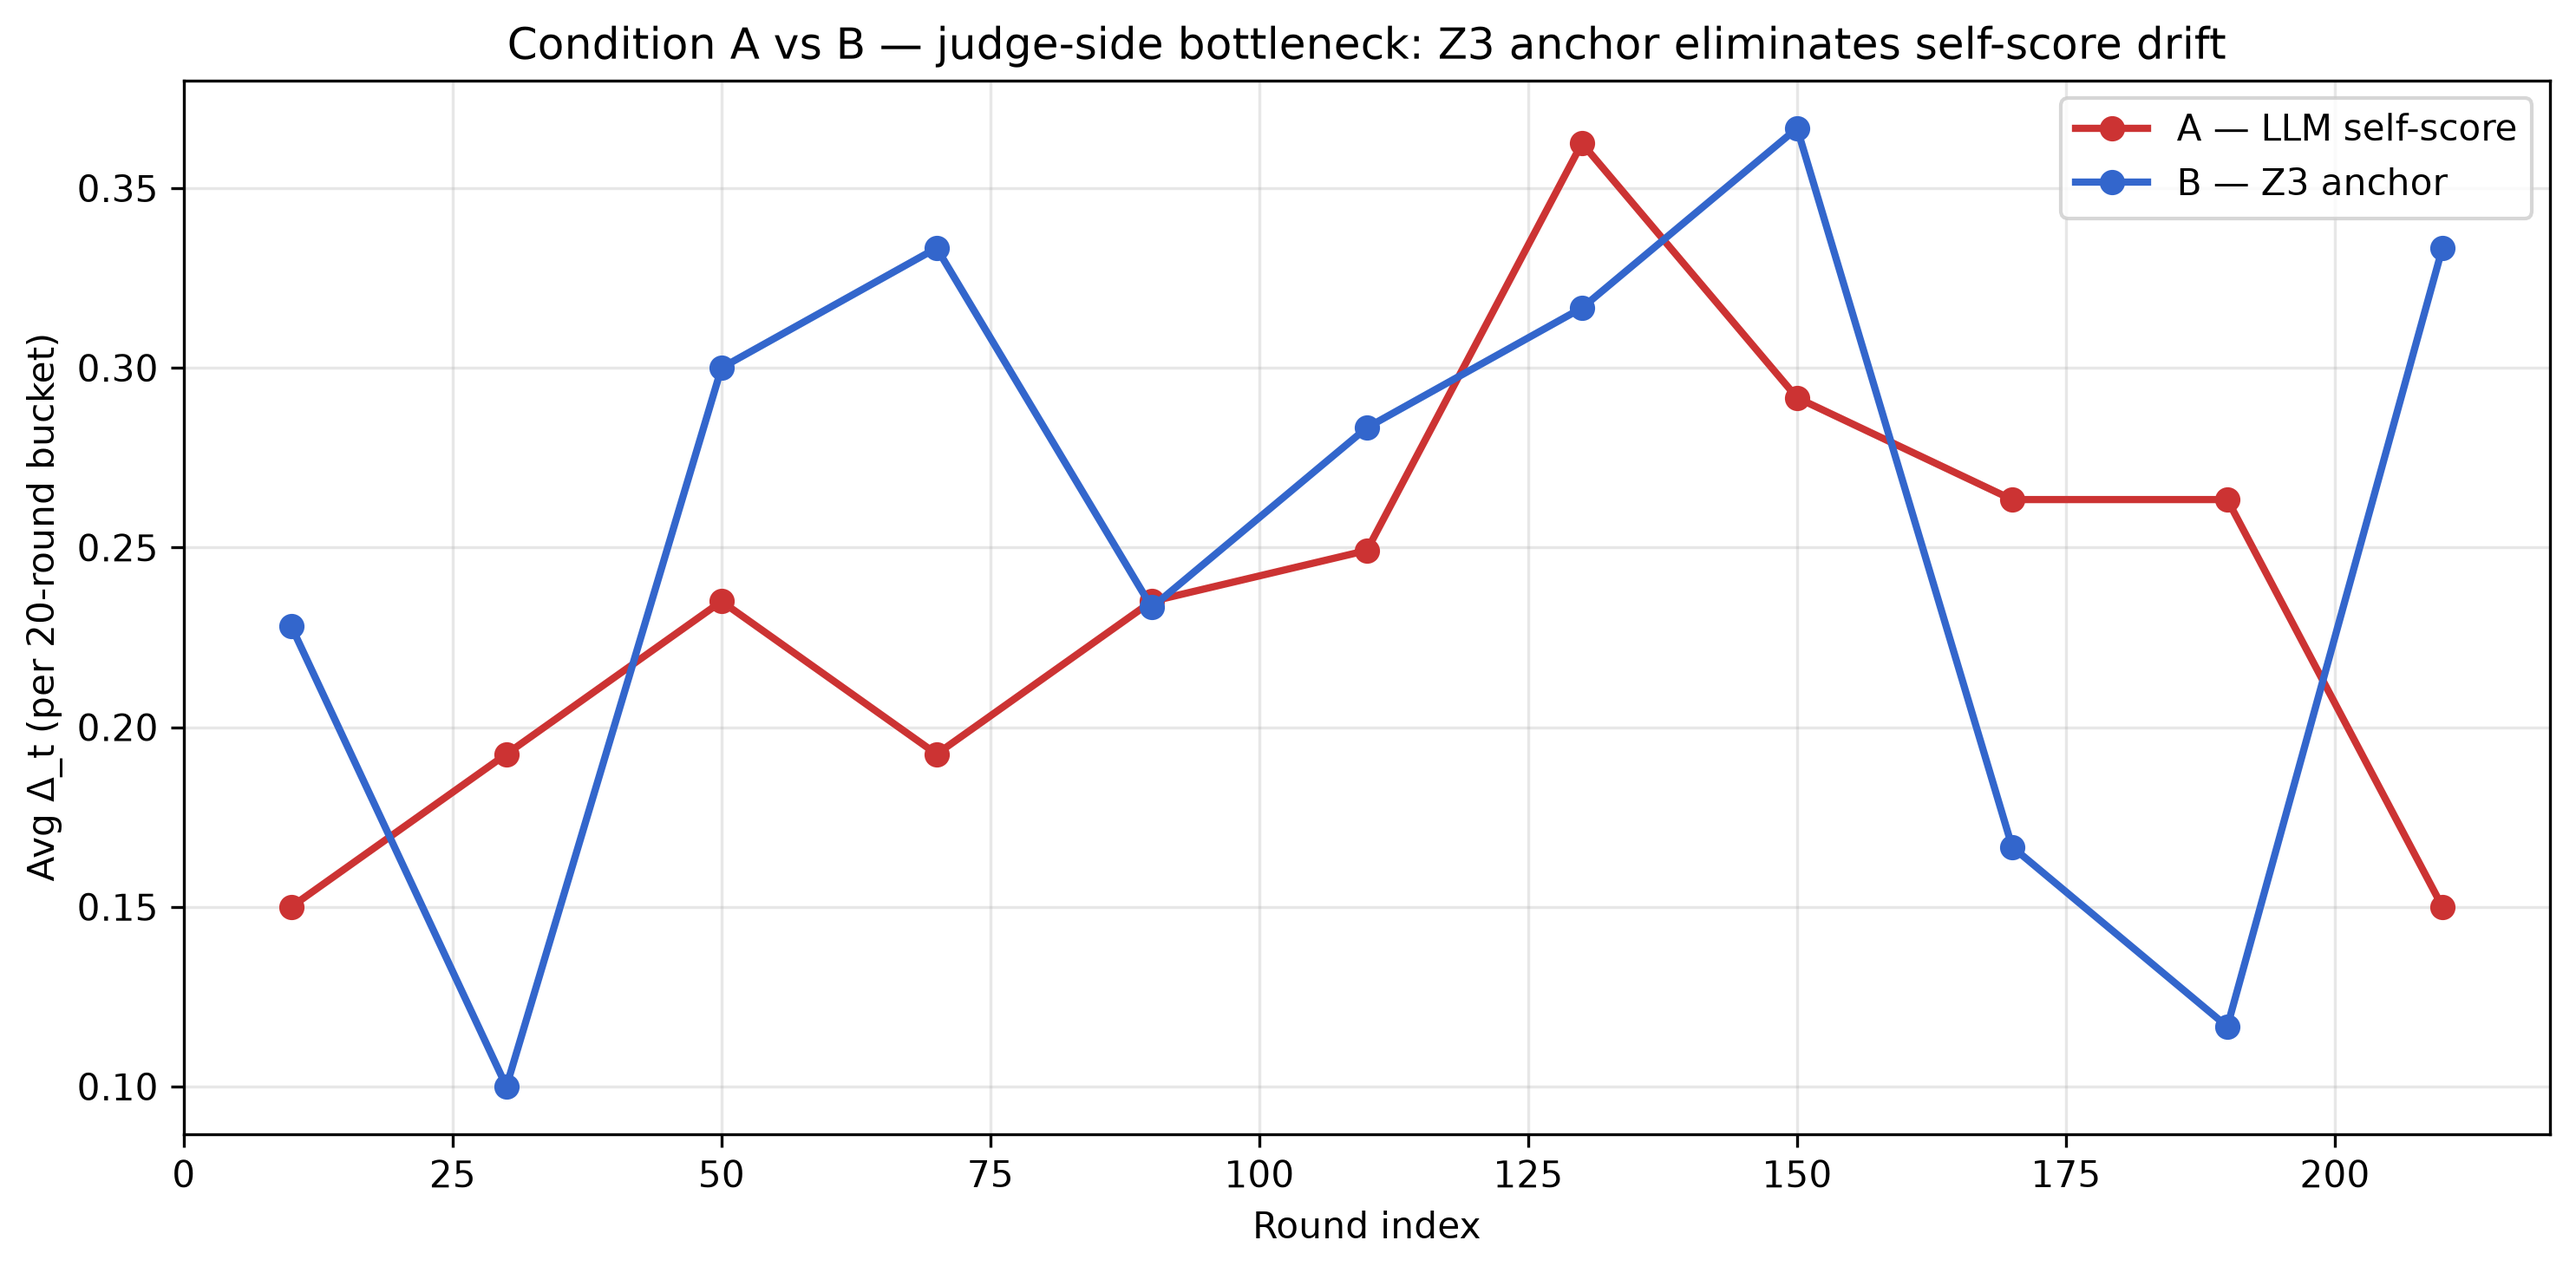
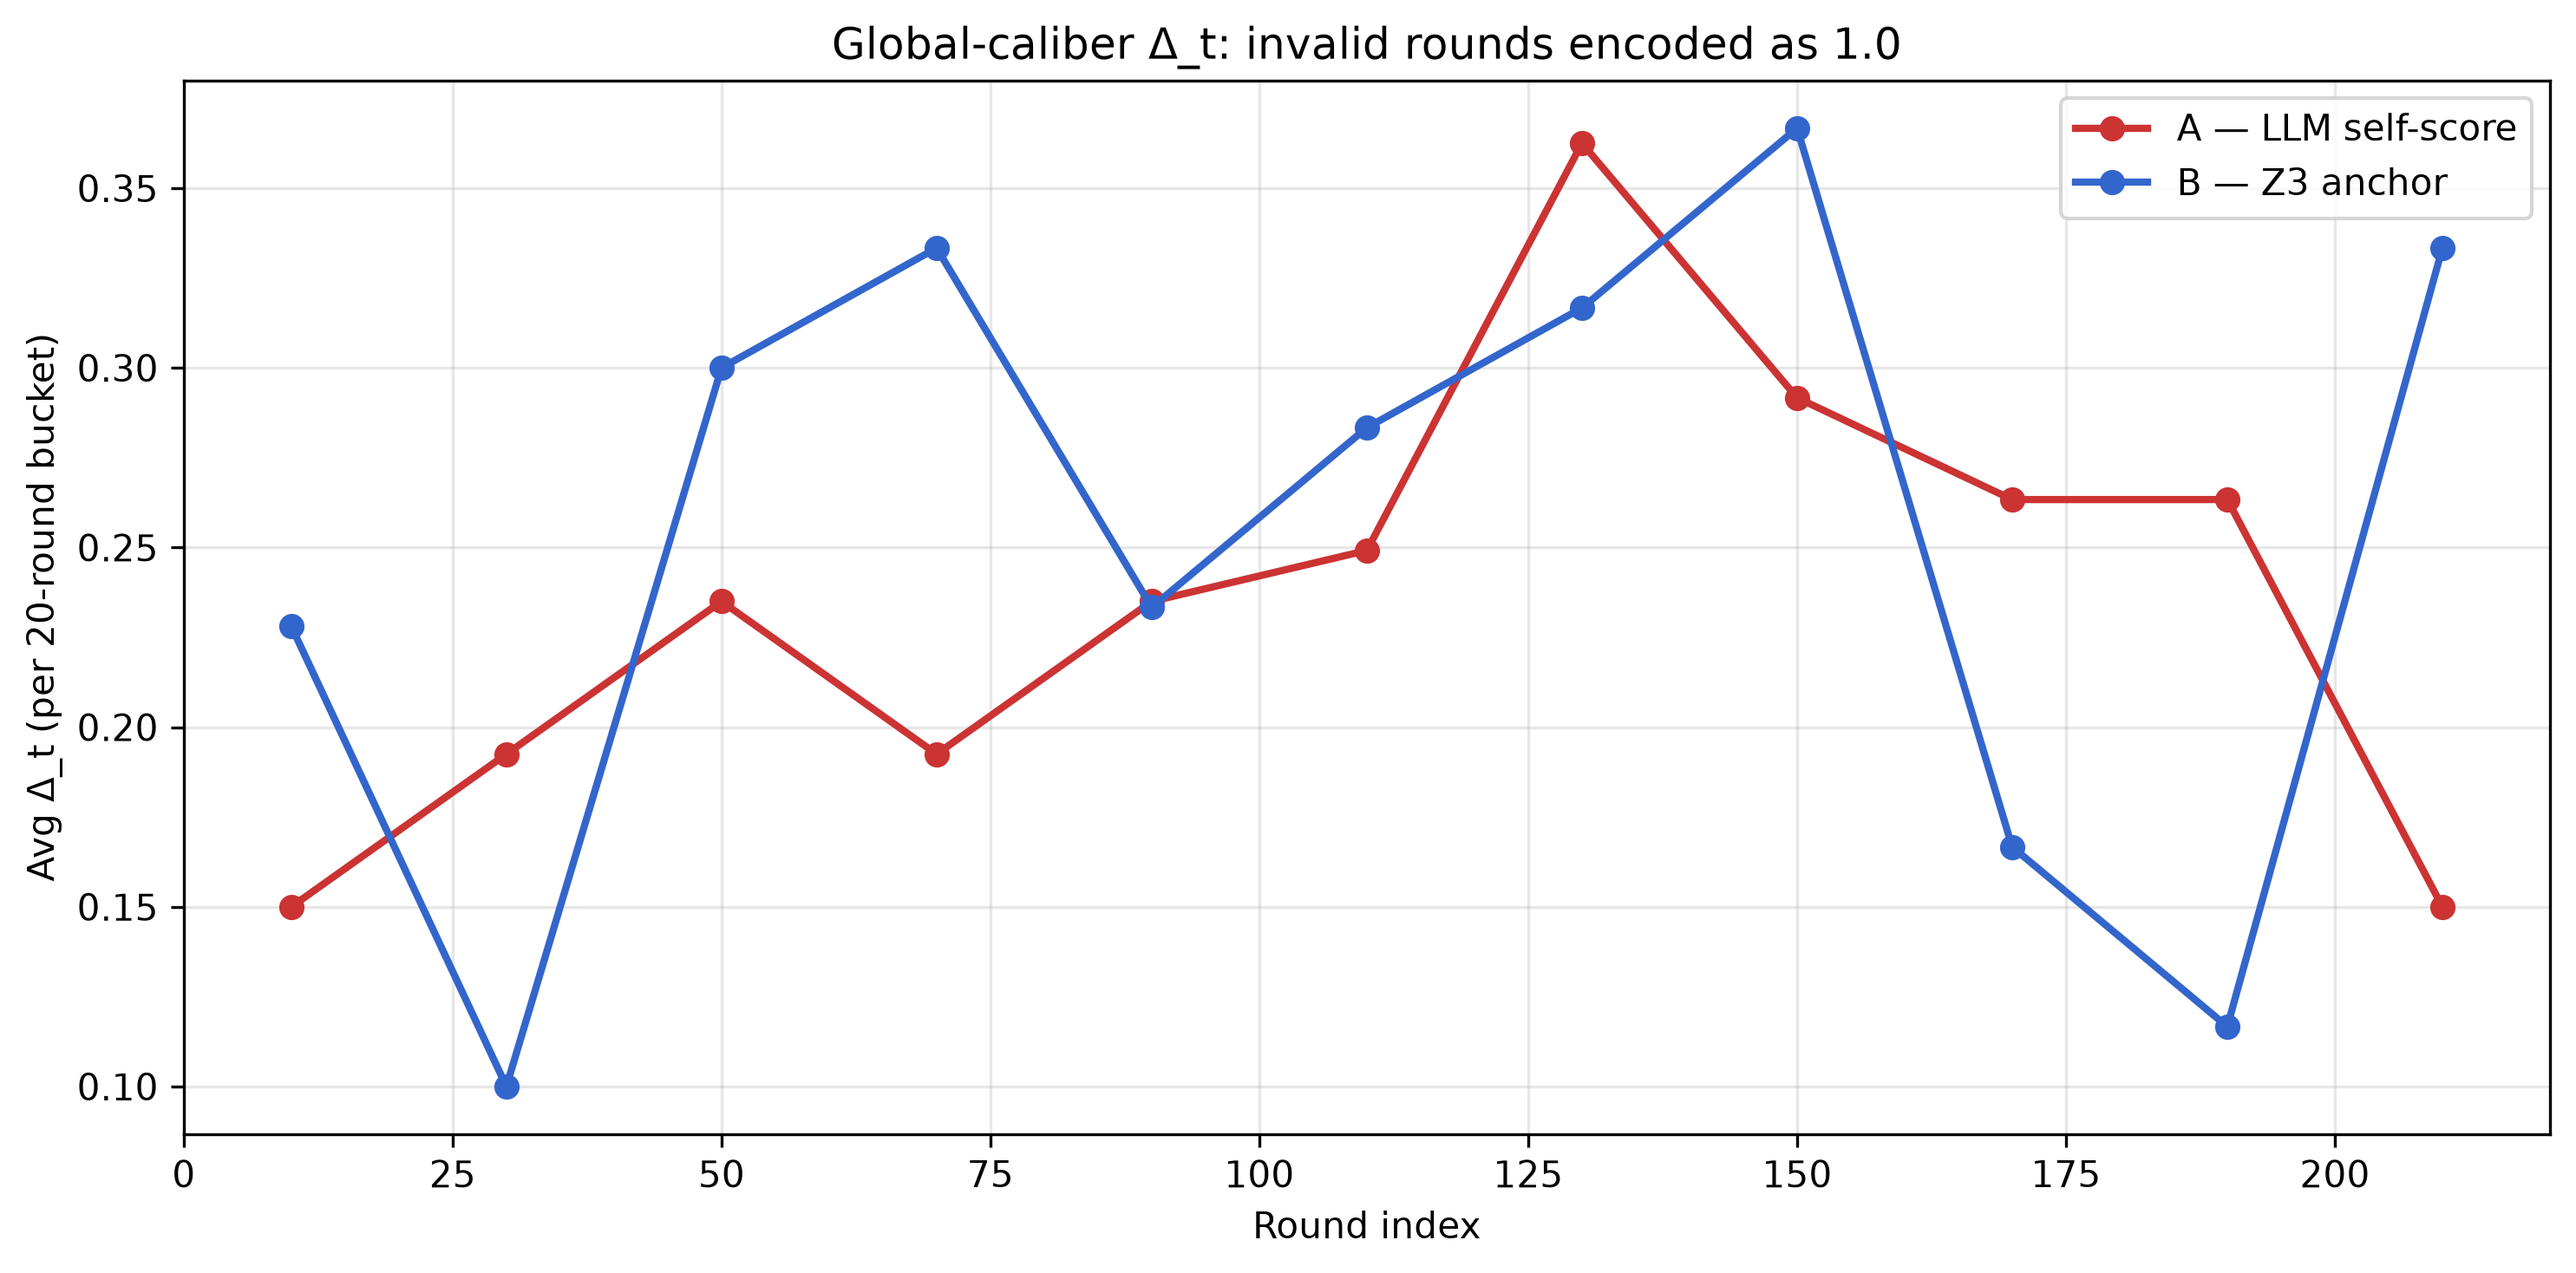
Correct fig2's caliber labelling; it plots the global caliber, not valid-only
fig2_delta_t_AB plots r['delta_t'] over every round, and load_round_records
assigns invalid rounds delta_t = 1.0. Condition A therefore averages 0.2435
and condition B 0.2450 - the two are near-indistinguishable, which is the
opposite of what a valid-only reading would suggest.

Three artefacts described it as valid-only evidence:

  - the title baked into the PNG read 'Z3 anchor eliminates self-score
    drift', a claim the plotted data contradicts
  - paper/main.tex's caption asserted 'A holds near 0.15 ... B holds at
    0.00', which are the valid-only means
  - docs/gallery.md's Figure A.1 repeated the same numbers

All three now state the global caliber with its actual means and point at
Figure 2 (fig2b_delta_t_per_round), the valid-only view, for judge
comparisons. README.md's figure-2 alt text and gallery heading described a
four-condition figure as 'A vs B'; both corrected.

unify_paper_outputs.py also relabelled fig2 as Figure A.1 and fig2b as
Figure 2 so the generated paper_ready_final.md matches the paper's layout,
and its Figure 2 caption cross-reference was renamed to match.

Regeneration was scoped so no other figure was touched: the two figure
functions were called directly rather than through analyze_paper.main,
which would also rewrite fig3/4/6, table1-5 and paper_ready.md.

Changed region(s): [[0.1859, 0.0, 0.8673, 0.0613]]

diff --git a/scripts/unify_paper_outputs.py b/scripts/unify_paper_outputs.py
@@ -803,8 +803,8 @@ def render_paper_final(out_path: Path, metrics: dict,
     md.append("[Table 2a: Δ_t global caliber — insert `tables/table2a_delta_t_global.md` here]\n\n")
     md.append("[Table 2b: Δ_t valid-only caliber — insert `tables/table2b_delta_t_valid_only.md` here]\n\n")
     md.append("[Table 2c: Δ_t semantics — insert `tables/table2c_delta_t_semantics.md` here]\n\n")
-    md.append("[Figure 2: Δ_t of A vs B — insert `fig2_delta_t_AB.png` here]\n\n")
-    md.append("[Figure 2b: per-round Δ_t — insert `fig2b_delta_t_per_round.png` here]\n\n")
+    md.append("[Figure 2: per-round Δ_t across 4 conditions — insert `fig2b_delta_t_per_round.png` here]\n\n")
+    md.append("[Figure A.1: global-caliber Δ_t, A vs B — insert `fig2_delta_t_AB.png` here]\n\n")
 
     md.append("### 4.3 Generator-Side Bottleneck (C and D)\n\n")
     va = metrics.get("valid_rate_A", 0.0)
@@ -831,7 +831,7 @@ def render_paper_final(out_path: Path, metrics: dict,
     md.append("[Figure 3b: valid rate by difficulty level — insert `fig3b_validity_by_level.png` here]\n\n")
     md.append("[Figure 4: C/D difficulty trajectories — insert `fig4_difficulty_trajectory.png` here]\n\n")
     md.append("[Figure 2c: L1-phase Δ_t — insert `fig2c_delta_t_L1_only.png` here]\n\n")
-    md.append("> **Caption for Figure 2b.** Each panel shows one condition; invalid "
+    md.append("> **Caption for Figure 2.** Each panel shows one condition; invalid "
               "rounds are marked with gray crosses. C/D show the pseudo-difficulty "
               "trap after L2 transition. Vertical lines mark the first round at which "
               "the difficulty controller raises the task level.\n\n")

diff --git a/scripts/analyze_paper.py b/scripts/analyze_paper.py
@@ -402,7 +402,7 @@ def fig2_delta_t_AB(records: list[dict], out_png: Path) -> bool:
         ax.plot(x_centers, ys, marker="o", linewidth=2, color=color, label=label)
     ax.set_xlabel("Round index")
     ax.set_ylabel("Avg Δ_t (per 20-round bucket)")
-    ax.set_title("Condition A vs B — judge-side bottleneck: Z3 anchor eliminates self-score drift",
+    ax.set_title("Global-caliber Δ_t: invalid rounds encoded as 1.0",
                  fontsize=12)
     ax.legend(loc="upper right")
     ax.grid(True, alpha=0.3)

diff --git a/docs/gallery.md b/docs/gallery.md
@@ -21,16 +21,17 @@ miss.
 
 ![Figure 1 — Dual-bottleneck concept](images/fig1_dual_bottleneck.png)
 
-### Figure 2 — Δ_t evolution, A vs B (fig2b_delta_t_per_round.png · §4.2)
+### Figure 2 — Δ_t evolution across 4 conditions, per-round (fig2b_delta_t_per_round.png · §4.2)
 
 Per-round Δ_t across all four conditions, one panel each; invalid rounds are marked with gray
 crosses, and vertical lines mark the first round at which the difficulty controller raises the task
-level. Conditions C and D show the pseudo-difficulty trap after the transition into L2.
+level. Conditions C and D show the pseudo-difficulty trap after the transition into L2. This is the
+valid-only caliber, which isolates judge behavior.
 
-> Sub-view: [fig2](images/fig2_delta_t_AB.png) is the 20-round bucket version;
-> [fig2c](images/fig2c_delta_t_L1_only.png) is the C/D L1-phase slice.
+> Sub-view: [fig2](images/fig2_delta_t_AB.png) is the global-caliber A/B view (Appendix A.1);
+> [fig2c](images/fig2c_delta_t_L1_only.png) is the C/D L1-phase slice (Appendix A.2).
 
-![Figure 2 — Δ_t evolution, A vs B](images/fig2b_delta_t_per_round.png)
+![Figure 2 — Δ_t evolution across 4 conditions, per-round](images/fig2b_delta_t_per_round.png)
 
 ### Figure 3 — Validity rate by condition (fig3_validity_rate.png · §4.3)
 
@@ -89,13 +90,13 @@ of which mechanisms are enabled.
 
 ## Appendix Figures
 
-### Figure A.1 — Δ_t overview, 20-round buckets (fig2_delta_t_AB.png)
+### Figure A.1 — Global-caliber Δ_t, A vs B (fig2_delta_t_AB.png)
 
-Δ_t evolution for conditions A and B, aggregated in 20-round buckets. A holds near 0.15 — a
-persistent gap between LLM self-scoring and Z3 ground truth — while B holds at 0.00, because the
-anchor's verdict *is* the ground truth whenever a task is well-formed.
+Global caliber (invalid rounds encoded as Δ_t = 1.0). Condition A averages 0.2435 and Condition B
+averages 0.2450; they appear similar because B's larger invalid rate offsets its zero valid-round
+bias. Compare with Figure 2 (valid-only caliber), which isolates judge behavior.
 
-![Figure A.1 — Δ_t overview](images/fig2_delta_t_AB.png)
+![Figure A.1 — Global-caliber Δ_t, A vs B](images/fig2_delta_t_AB.png)
 
 ### Figure A.2 — C/D Δ_t in L1 phase only (fig2c_delta_t_L1_only.png)
 

diff --git a/reports/paper_ready_final.md b/reports/paper_ready_final.md
@@ -23,9 +23,9 @@ Under the valid-only caliber, condition A (LLM self-score) yields Δ_t = 0.150 w
 
 [Table 2c: Δ_t semantics — insert `tables/table2c_delta_t_semantics.md` here]
 
-[Figure 2: Δ_t of A vs B — insert `fig2_delta_t_AB.png` here]
+[Figure 2: per-round Δ_t across 4 conditions — insert `fig2b_delta_t_per_round.png` here]
 
-[Figure 2b: per-round Δ_t — insert `fig2b_delta_t_per_round.png` here]
+[Figure A.1: global-caliber Δ_t, A vs B — insert `fig2_delta_t_AB.png` here]
 
 ### 4.3 Generator-Side Bottleneck (C and D)
 
@@ -43,7 +43,7 @@ Importantly, the student is not the bottleneck. Among all 2400 rounds, every rou
 
 [Figure 2c: L1-phase Δ_t — insert `fig2c_delta_t_L1_only.png` here]
 
-> **Caption for Figure 2b.** Each panel shows one condition; invalid rounds are marked with gray crosses. C/D show the pseudo-difficulty trap after L2 transition. Vertical lines mark the first round at which the difficulty controller raises the task level.
+> **Caption for Figure 2.** Each panel shows one condition; invalid rounds are marked with gray crosses. C/D show the pseudo-difficulty trap after L2 transition. Vertical lines mark the first round at which the difficulty controller raises the task level.
 
 ### 4.4 The Dual-Bottleneck Picture
 

diff --git a/README.md b/README.md
@@ -20,7 +20,7 @@ fact spinning in place. I call this the **pseudo-difficulty trap**.
 This led to a joint framing: self-evolution requires *both* a reliable judge (τ > τ_c) *and* a capable
 generator (V > V_c). Neither alone suffices.
 
-![Δ_t A vs B](docs/images/fig2b_delta_t_per_round.png)
+![Δ_t evolution across 4 conditions, per-round](docs/images/fig2b_delta_t_per_round.png)
 
 Z3 anchoring fully eliminates self-score drift: Condition A holds at Δ_t = 0.15, Condition B at
 Δ_t = 0.00.
